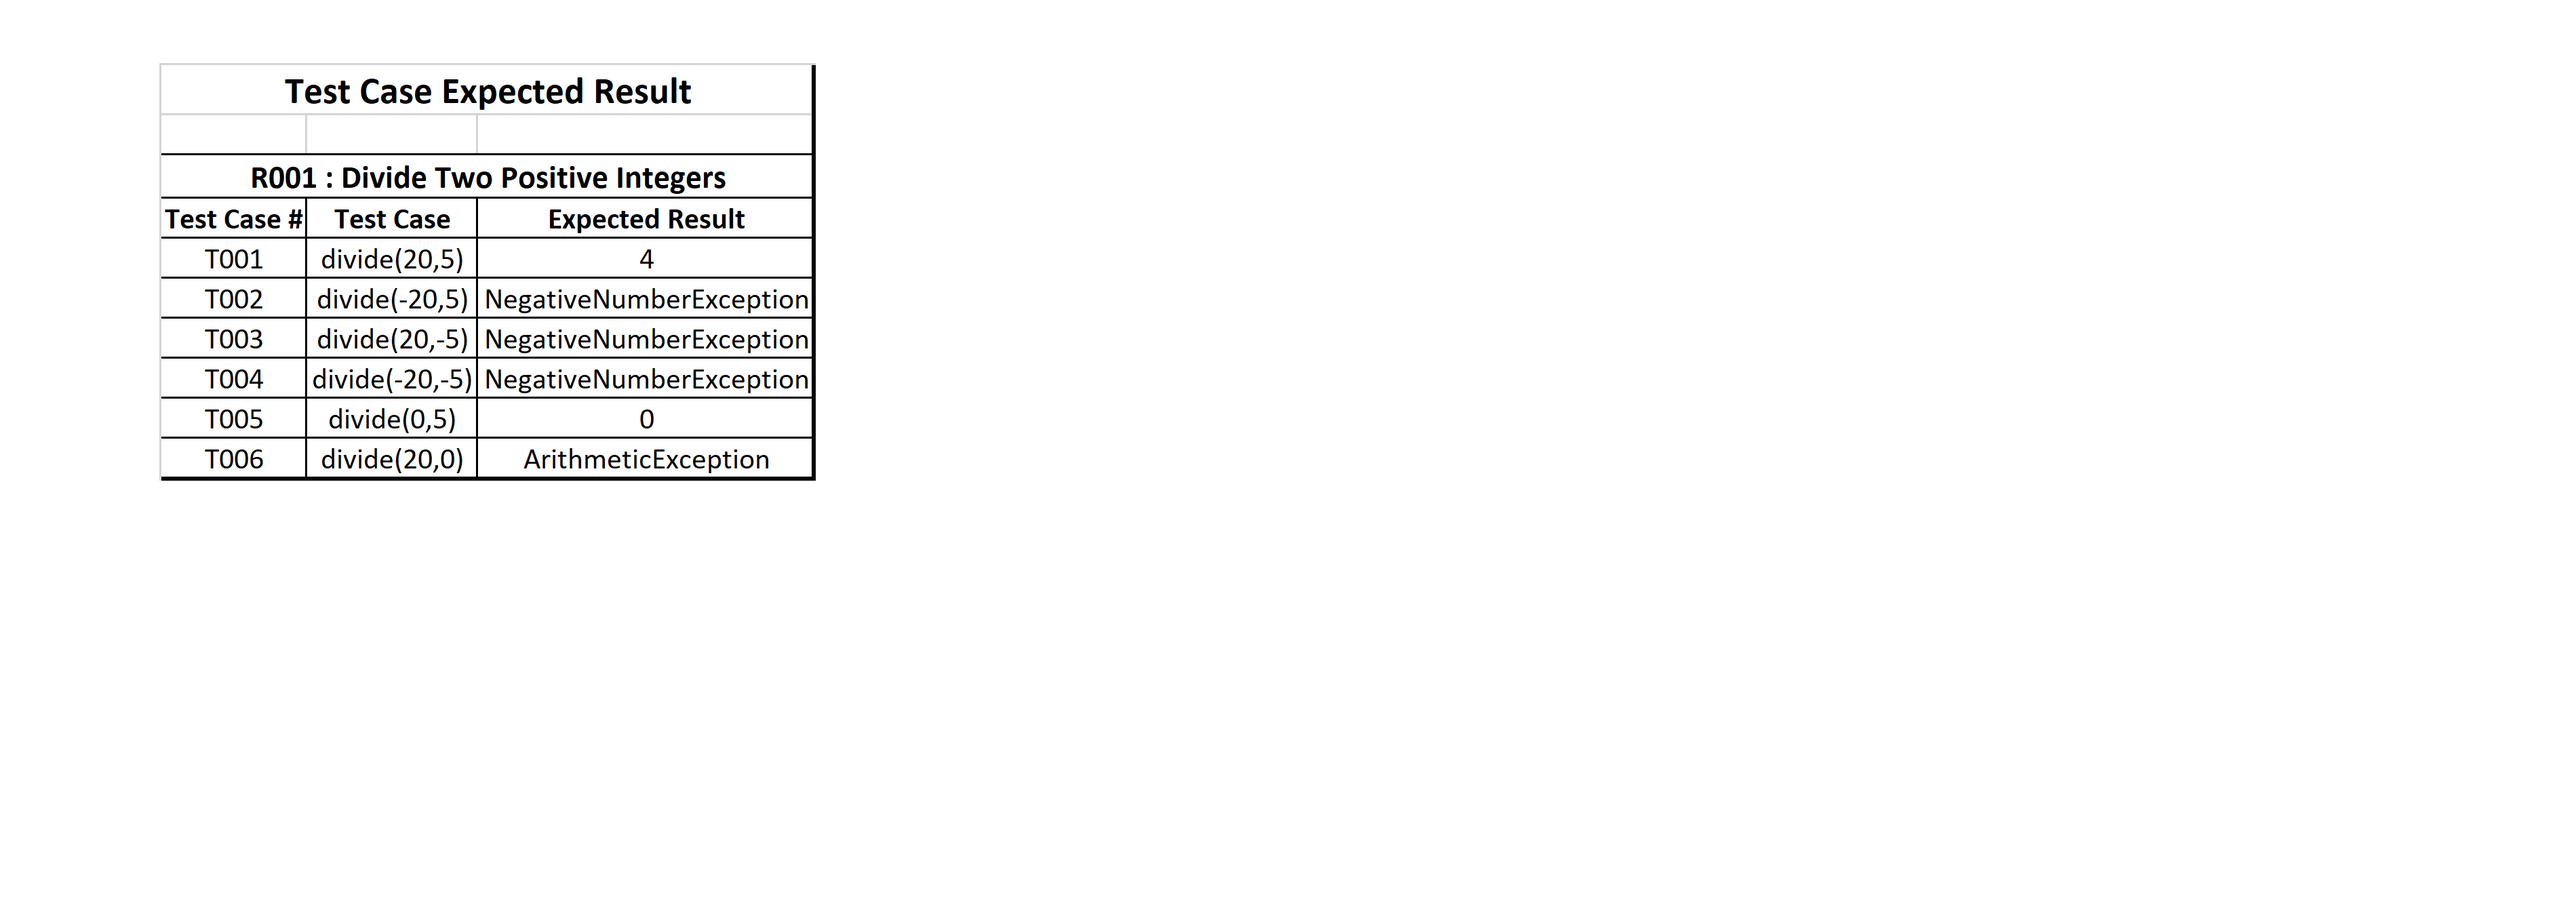
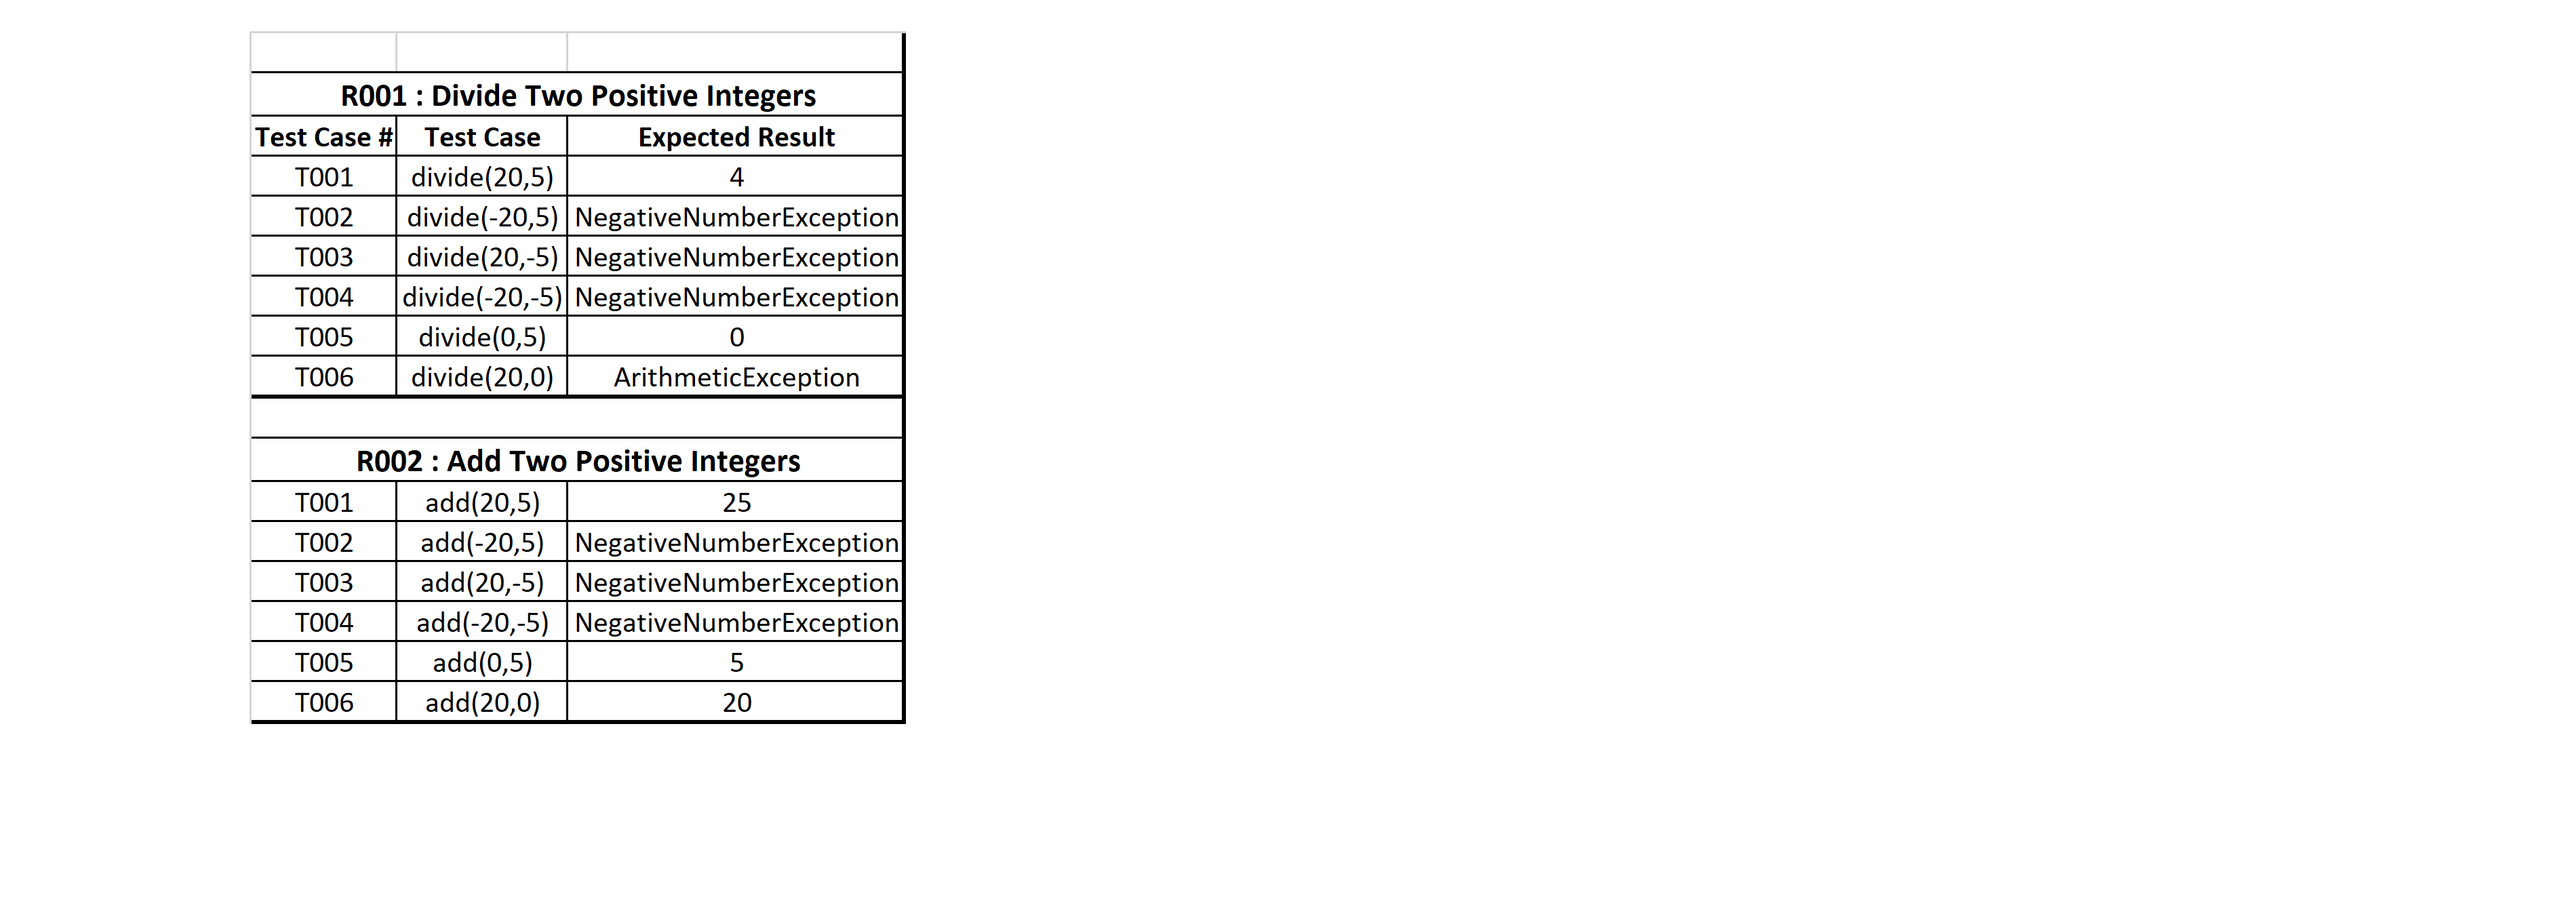
Add files via upload

Changed region(s): [[0.0621, 0.0617, 0.3727, 0.8021]]

diff --git a/21 Nov 2022/MyFirstJunitDemoProject/src/com/sujata/test/TestCalculator.java b/21 Nov 2022/MyFirstJunitDemoProject/src/com/sujata/test/TestCalculator.java
@@ -4,51 +4,94 @@ import static org.junit.jupiter.api.Assertions.*;
 
 import org.junit.jupiter.api.AfterEach;
 import org.junit.jupiter.api.BeforeEach;
+import org.junit.jupiter.api.DisplayName;
+import org.junit.jupiter.api.Nested;
 import org.junit.jupiter.api.Test;
 
 import com.sujata.demo.Calculator;
 import com.sujata.exception.NegativeNumberException;
 
+@DisplayName("Testing Calculator Class")
 class TestCalculator {
 
 	private Calculator calculator;
-	
+
 	@BeforeEach
 	void setUp() throws Exception {
-		calculator=new Calculator();
+		calculator = new Calculator();
 	}
 
 	@AfterEach
 	void tearDown() throws Exception {
-		calculator=null;
+		calculator = null;
 	}
 
-	@Test
-	void R001_T001() throws NegativeNumberException {
-		assertEquals(4, calculator.divide(20, 5));
-	}
-	@Test
-	void R001_T002() throws NegativeNumberException {
-		assertThrows(NegativeNumberException.class,()->calculator.divide(-20, 5));
-	}
-	
-	@Test
-	void R001_T003() throws NegativeNumberException {
-		assertThrows(NegativeNumberException.class,()->calculator.divide(20, -5));
-	}
-	
-	@Test
-	void R001_T004() throws NegativeNumberException {
-		assertThrows(NegativeNumberException.class,()->calculator.divide(-20, -5));
-	}
-	@Test
-	void R001_T005() throws NegativeNumberException {
-		assertEquals(0, calculator.divide(0, 5));
-	}
-	@Test
-	void R001_T006() throws NegativeNumberException {
-		assertThrows(ArithmeticException.class,()->calculator.divide(20, 0));
-	}
-	
+	@Nested
+	class CheckDivide {
+		@DisplayName("divide 20 by 5")
+		@Test
+		void R001_T001() throws NegativeNumberException {
+			assertEquals(4, calculator.divide(20, 5));
+		}
 
+		@DisplayName("divide -20 by 5")
+		@Test
+		void R001_T002() throws NegativeNumberException {
+			assertThrows(NegativeNumberException.class, () -> calculator.divide(-20, 5));
+		}
+
+		@Test
+		void R001_T003() throws NegativeNumberException {
+			assertThrows(NegativeNumberException.class, () -> calculator.divide(20, -5));
+		}
+
+		@Test
+		void R001_T004() throws NegativeNumberException {
+			assertThrows(NegativeNumberException.class, () -> calculator.divide(-20, -5));
+		}
+
+		@Test
+		void R001_T005() throws NegativeNumberException {
+			assertEquals(0, calculator.divide(0, 5));
+		}
+
+		@Test
+		void R001_T006() throws NegativeNumberException {
+			assertThrows(ArithmeticException.class, () -> calculator.divide(20, 0));
+		}
+	}
+
+	@Nested
+	class CheckAdd {
+		@Test
+		void R002_T001() throws NegativeNumberException {
+			assertEquals(25, calculator.add(20, 5));
+		}
+
+		@DisplayName("add -20 by 5")
+		@Test
+		void R002_T002() throws NegativeNumberException {
+			assertThrows(NegativeNumberException.class, () -> calculator.add(-20, 5));
+		}
+
+		@Test
+		void R002_T003() throws NegativeNumberException {
+			assertThrows(NegativeNumberException.class, () -> calculator.add(20, -5));
+		}
+
+		@Test
+		void R002_T004() throws NegativeNumberException {
+			assertThrows(NegativeNumberException.class, () -> calculator.add(-20, -5));
+		}
+
+		@Test
+		void R002_T005() throws NegativeNumberException {
+			assertEquals(5, calculator.add(0, 5));
+		}
+
+		@Test
+		void R002_T006() throws NegativeNumberException {
+			assertEquals(20, calculator.add(20, 0));
+		}
+	}
 }

diff --git a/21 Nov 2022/MyFirstJunitDemoProject/src/com/sujata/demo/Calculator.java b/21 Nov 2022/MyFirstJunitDemoProject/src/com/sujata/demo/Calculator.java
@@ -13,4 +13,12 @@ public class Calculator {
 		else
 			throw new NegativeNumberException("Numbers cannot be Negative");
 	}
+	
+	
+	/*
+	 * Requirement - R002 : Add two Positive Integers
+	 */
+	public int add(int number1,int number2)throws NegativeNumberException{
+		return 0;
+	}
 }
